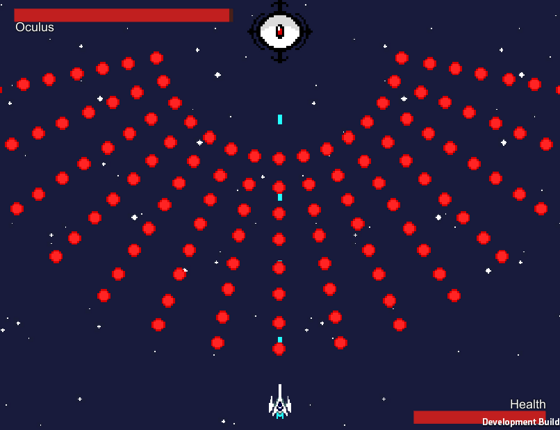
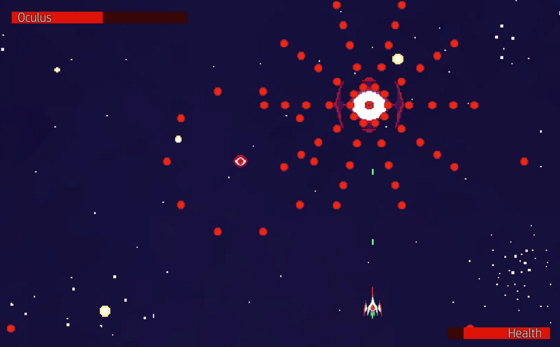
Update to Bullet Waves

diff --git a/index.html b/index.html
@@ -103,14 +103,15 @@
 			<img src="BulletWaves.png" alt="BulletWaves" style="width:560px; height:430px;">
 		</div>
 		<div class="description">
-			August 2016
+			August 2016, May-June 2017
 			<br>
 			Programming language: C#
 			<br>
 			<br>
-			Bullet Waves is a personal 2D Unity game made in the style of "bullet-hell" games. The enemy will spawn
-			continuous waves of bullets flying across the screen, and the challenge is to dodge them and defeat
-			the enemy. There is also an Endless Mode for practice.
+			Bullet Waves is a personal 2D Unity game made in the style of "bullet-hell" games. It is a shooter with
+			a focus on fighting bosses. In normal mode, the player defeats bosses one after another. In endless mode,
+			the boss's health is removed and damage dealt to the boss increases the player's score. There are currently
+			two bosses to challenge.
 			<br>
 			<br>
 			<a href="https://jymao.github.io/BulletWaves/">Play it here</a>
